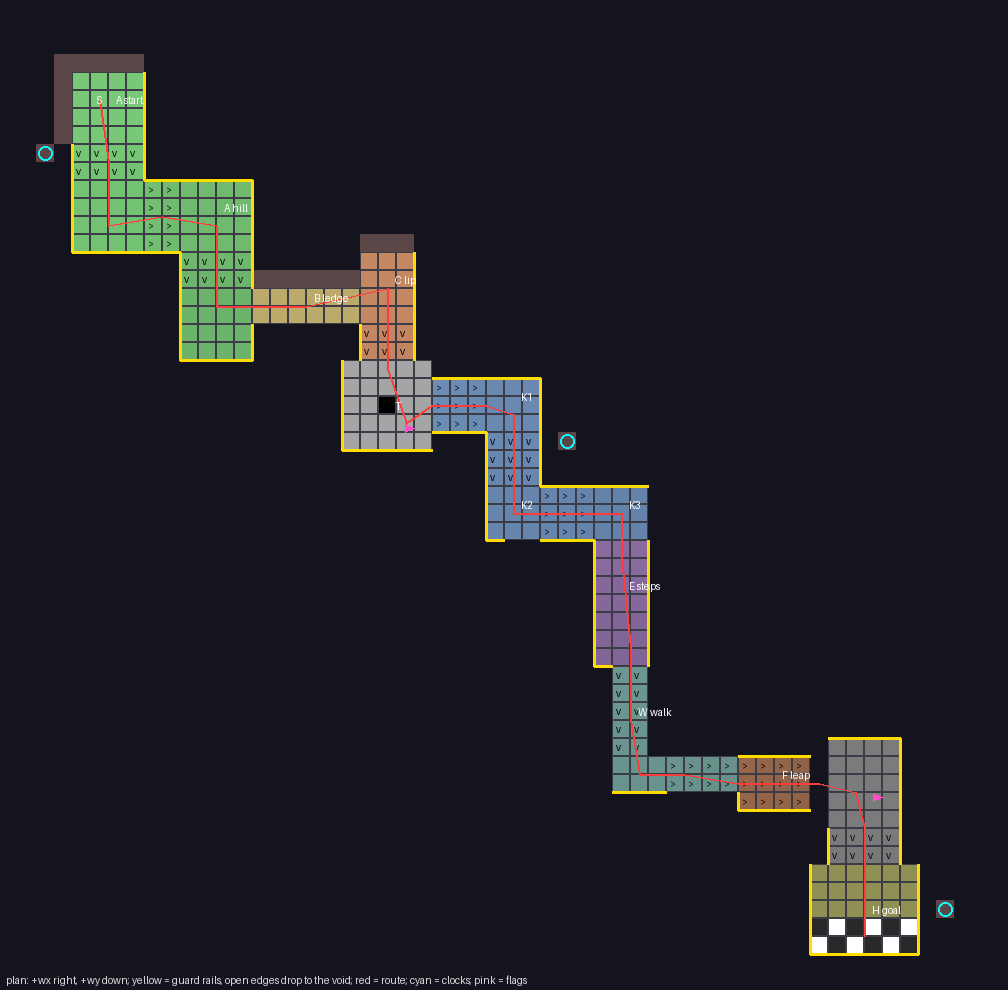
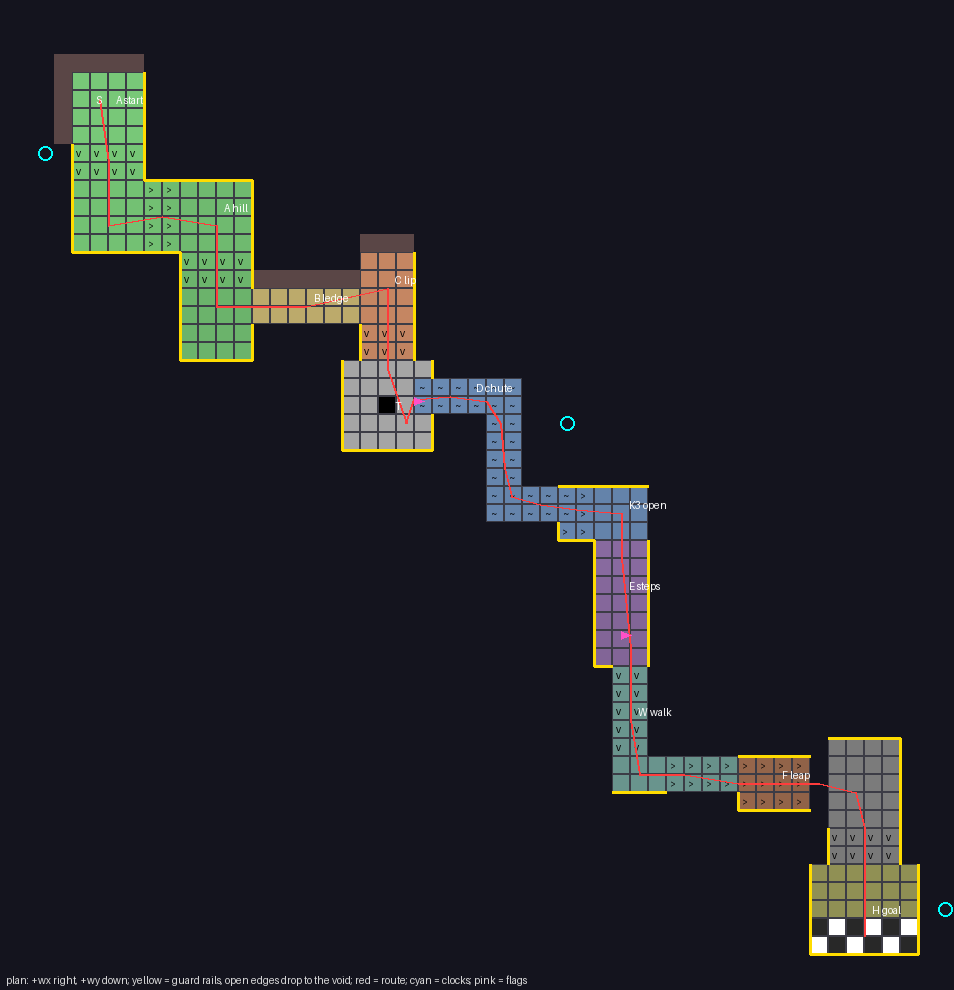
bonanza: FIRST ROLL pen-in revision 2 - the shaped chute in place of the corners, flags moved, clocks over the void
The owner's mark-up of revision 1: flag 0 to T's exit; an unfenced two-wide
shaped chute (as PLAYGROUND's) in place of K1/K2, rails back up on its exit
and K3's end open for the full-speed overshoot; flag 1 after E's turn; no
flag past the leap; clocks standing over the void so a standard-part clock
fits.

Claude-Session: https://claude.ai/code/session_01Wo8a4suEiDfFPFBsnHYKF3

Changed region(s): [[0.0304, 0.0606, 1.0, 0.9697], [0.0, 0.9697, 0.5472, 1.0]]

diff --git a/docs/plans/bonanza-courses/first/sketch.py b/docs/plans/bonanza-courses/first/sketch.py
@@ -37,6 +37,41 @@ def ramp(sec, axis, x0, y0, x1, y1, z0, z1):
             SECTION[(x, y)] = sec
 
 
+CHUTE = {}          # (wx, wy) -> the height function of the chute it is part of
+
+
+def chute(sec, ways, depth):
+    """a 2-wide shaped channel: its crease through the cell corners `ways`
+    [(x, y, lip z)], its bottom `depth` units under the lip on the crease,
+    rising as a parabola to the lip one tile either side"""
+    segs, L = [], 0.0
+    for (ax, ay, az), (bx, by, bz) in zip(ways, ways[1:]):
+        n = abs(bx - ax) + abs(by - ay)
+        segs.append((ax, ay, az, bx, by, bz, L, n))
+        L += n
+
+    def near(px, py):
+        best = None
+        for ax, ay, az, bx, by, bz, l0, n in segs:
+            t = max(0.0, min(1.0, ((px - ax) * (bx - ax) + (py - ay) * (by - ay)) / (n * n)))
+            qx, qy = ax + (bx - ax) * t, ay + (by - ay) * t
+            dd = ((px - qx) ** 2 + (py - qy) ** 2) ** 0.5
+            if best is None or dd < best[0]:
+                best = (dd, az + (bz - az) * t)
+        return best
+
+    def h(px, py):
+        dd, lip = near(px, py)
+        return lip - depth * (1 - min(dd, 1.0) ** 2)
+    xs = [w[0] for w in ways]; ys = [w[1] for w in ways]
+    for x in range(min(xs) - 1, max(xs) + 1):
+        for y in range(min(ys) - 1, max(ys) + 1):
+            if near(x + 0.5, y + 0.5)[0] <= 0.75:
+                CELLS[(x, y)] = (h(x, y), h(x + 1, y), h(x + 1, y + 1), h(x, y + 1))
+                SECTION[(x, y)] = sec
+                CHUTE[(x, y)] = h
+
+
 def rail(x0, y0, x1, y1):
     RAILS.append((x0, y0, x1, y1))
 
@@ -70,20 +105,16 @@ rail(23, 14, 23, 18)
 ramp("C", "y", 20, 18, 23, 20, Z - 6, Z - 7)                 # the lip ramp
 rail(20, 18, 20, 20); rail(23, 18, 23, 20)
 floor("T", 19, 20, 24, 25, Z - 10)                           # T, 3 units under the lip
-rail(19, 20, 19, 25); rail(19, 25, 24, 25)
+rail(19, 20, 19, 25); rail(19, 25, 24, 25); rail(24, 20, 24, 21); rail(24, 23, 24, 25)
 HOLES |= {(21, 22)}
-# D  three corners, each less forgiving: the first railed, the second half
-#    railed, the third open.  Gentle ramps on the legs
-ramp("D", "x", 24, 21, 27, 24, Z - 10, Z - 11)               # D1 leg
-rail(24, 21, 27, 21); rail(24, 24, 27, 24)
-floor("D", 27, 21, 30, 24, Z - 11)                           # K1, railed
-rail(27, 21, 30, 21); rail(30, 21, 30, 24)
-ramp("D", "y", 27, 24, 30, 27, Z - 11, Z - 12)               # D2 leg
-rail(27, 24, 27, 27); rail(30, 24, 30, 27)
-floor("D", 27, 27, 30, 30, Z - 12)                           # K2, half railed
-rail(27, 27, 27, 30); rail(27, 30, 28, 30)
-ramp("D", "x", 30, 27, 33, 30, Z - 12, Z - 13)               # D3 leg
-rail(30, 27, 33, 27); rail(30, 30, 33, 30)
+# D  the CHUTE: a shaped, two-wide channel (`chute 2 round`, SPEC.md
+#    130.28, like PLAYGROUND's), UNFENCED - its shape is the guide - from
+#    T's exit along +x, round a corner down +y, round a corner along +x into
+#    D3.  D3's rails come back up as it exits; K3's far end stays OPEN, so a
+#    ball out of the chute at full speed can overshoot into the void
+chute("D", [(24, 22, Z - 10), (28, 22, Z - 11), (28, 28, Z - 12), (31, 28, Z - 12)], 1.25)
+ramp("D", "x", 31, 27, 33, 30, Z - 12, Z - 13)               # D3, railed
+rail(31, 27, 33, 27); rail(31, 30, 33, 30); rail(31, 29, 31, 30)
 floor("D", 33, 27, 36, 30, Z - 13)                           # K3, open
 rail(33, 27, 36, 27)
 # E  the steps: one unit each, down onto floor (a drop onto floor is fine)
@@ -113,20 +144,19 @@ rail(45, 48, 45, 53); rail(45, 53, 51, 53); rail(51, 48, 51, 53)
 GOAL = {(x, y) for x in range(45, 51) for y in range(51, 53)}
 
 START = (5.5, 5.5)
-FLAGS = [(22.5, 24.0, "flag 0"), (48.5, 44.5, "flag 1")]
+FLAGS = [(23.0, 22.5, "flag 0"), (34.5, 35.5, "flag 1")]
 # clocks: (wx, wy, z of the face's foot, frame)
-CLOCKS = [(2.5, 8.5, Z, "pillar"), (31.5, 24.5, Z - 9, "pillar"), (52.5, 50.5, Z - 21, "pillar")]
-for x, y, z, _ in CLOCKS:
-    WALLS.append((int(x), int(y), int(x) + 1, int(y) + 1, z - 2))
+# every clock a STANDARD part standing over the void, beside the path (no tile under it)
+CLOCKS = [(2.5, 8.5, Z, "over void"), (31.5, 23.5, Z - 9, "over void"), (52.5, 50.5, Z - 21, "over void")]
 
 # the route, as the player rolls it (the sketch's centre line, not a demo)
 ROUTE = [(5.5, 5.5), (6, 9), (6, 12.5), (9, 12), (12, 12.5), (12, 15), (12, 17),
          (13.5, 17), (17, 17), (21.5, 16), (21.5, 19), (21.5, 20.5), (22.6, 23.5),
-         (24, 22.5), (27, 22.5), (28.5, 23), (28.5, 26), (28.5, 28.5), (31, 28.5),
+         (23, 22.2), (25, 22), (27, 22.3), (27.8, 23.5), (28, 26), (28.4, 27.6), (30, 28), (32, 28.3),
          (34.5, 28.5), (34.5, 31), (35, 36), (35, 40), (35.5, 43), (38, 43),
          (41, 43.5), (45.5, 43.5), (47.5, 44), (48, 46), (48, 52)]
 LABELS = [(6, 6, "A start"), (12, 12, "A hill"), (17, 17, "B ledge"), (21.5, 16, "C lip"),
-          (21.5, 23, "T"), (28.5, 22.5, "K1"), (28.5, 28.5, "K2"), (34.5, 28.5, "K3"),
+          (21.5, 23, "T"), (26, 22, "D chute"), (34.5, 28.5, "K3 open"),
           (34.5, 33, "E steps"), (35, 40, "W walk"), (43, 43.5, "F leap"),
           (48, 51, "H goal")]
 
@@ -161,7 +191,10 @@ def plan(out):
         if (x, y) in GOAL:
             col = (255, 255, 255) if (x + y) % 2 else (40, 40, 40)
         d.rectangle([x * S, y * S, x * S + S - 1, y * S + S - 1], fill=col, outline=(60, 60, 70))
-        if c[0] != c[2] or c[1] != c[3]:
+        if (x, y) in CHUTE:
+            dep = min(c)
+            d.text((x * S + 5, y * S + 3), "~", fill=(0, 0, 0))
+        elif c[0] != c[2] or c[1] != c[3]:
             d.text((x * S + 4, y * S + 3), "v" if c[3] < c[0] else ">", fill=(0, 0, 0))
     for x0, y0, x1, y1, z in WALLS:
         d.rectangle([x0 * S, y0 * S, x1 * S - 1, y1 * S - 1], fill=(90, 70, 70))
@@ -216,7 +249,17 @@ def iso(out):
                   fill=tuple(v // 2 for v in base))
         d.polygon([Q(x + 1, y, ne), Q(x + 1, y + 1, se), Q(x + 1, y + 1, ground), Q(x + 1, y, ground)],
                   fill=tuple(v * 2 // 3 for v in base))
-        d.polygon(top, fill=base, outline=tuple(v * 3 // 4 for v in base))
+        if (x, y) in CHUTE and not wall:
+            hf, k = CHUTE[(x, y)], 4
+            for i in range(k):
+                for j in range(k):
+                    a0, b0, a1, b1 = x + i / k, y + j / k, x + (i + 1) / k, y + (j + 1) / k
+                    zz = [hf(a0, b0), hf(a1, b0), hf(a1, b1), hf(a0, b1)]
+                    sh = 0.75 + 0.25 * (zz[1] + zz[2] - zz[0] - zz[3] + 2) / 4
+                    col = tuple(min(255, int(v * sh)) for v in base)
+                    d.polygon([Q(a0, b0, zz[0]), Q(a1, b0, zz[1]), Q(a1, b1, zz[2]), Q(a0, b1, zz[3])], fill=col)
+        else:
+            d.polygon(top, fill=base, outline=tuple(v * 3 // 4 for v in base))
     for x0, y0, x1, y1 in RAILS:
         n = max(abs(x1 - x0), abs(y1 - y0)) * 2
         seg = []
@@ -244,13 +287,13 @@ def iso(out):
     # route's px span against the camera's dead zone (160 px on the CGA)
     rx = [Q(x, y, zat(x, y))[0] for x, y in ROUTE]
     mid = (min(rx) + max(rx)) // 2
-    for i, (x, y) in enumerate((ROUTE[0], ROUTE[16], ROUTE[-1])):
+    for i, (x, y) in enumerate((ROUTE[0], ROUTE[15], ROUTE[-1])):
         _, cy = Q(x, y, zat(x, y))
         d.rectangle([mid - 160, cy - 100, mid + 160, cy + 100], outline=(0, 255, 255))
     d.line([mid - 80, 0, mid - 80, H], fill=(70, 70, 120))
     d.line([mid + 80, 0, mid + 80, H], fill=(70, 70, 120))
     d.text((8, 8), "route px span %d (CGA dead zone 160); course %d lines tall; cyan boxes = one CGA "
-           "window at the start, K2's clock and the goal" % (max(rx) - min(rx), H - 220), fill=(220, 220, 220))
+           "window at the start, the chute's clock and the goal" % (max(rx) - min(rx), H - 220), fill=(220, 220, 220))
     im.save(out)
     return max(rx) - min(rx), H
 

diff --git a/docs/plans/bonanza-courses/FIRST-ROLL.md b/docs/plans/bonanza-courses/FIRST-ROLL.md
@@ -1,43 +1,54 @@
 # FIRST ROLL: design sheet, attempt 1
 
-*Status: **PEN-IN**. On paper only, for the back and forth with the owner
-before anything goes into the engine (the guide's pipeline, section 3).
-Nothing here is built. Distances are tiles, heights are units (8 px), and
-times are PREDICTED from the route's length; the tool measures them once the
-course is in the engine.*
+*Status: **PEN-IN, revision 2**. On paper only, for the back and forth with
+the owner before anything goes into the engine (the guide's pipeline,
+section 3). Nothing here is built. Distances are tiles, heights are units
+(8 px), and times are PREDICTED from the route's length; the tool measures
+them once the course is in the engine.*
 
 The test course of the same title (`apps/bonanza/courses/first.bbc`, FIRST)
 stays a test course. This is the shipped course 1. Its NAME in the tool is
 proposed as `ROLL`, leaving FIRST free for the test course.
 
+**Revision 2 (the owner, 2026-11-18, on revision 1's picture):**
+- flag 0 moves to T's middle, at its exit;
+- the three railed corners become a SHAPED CHUTE, two tiles wide and
+  unfenced. The rails come back up where it exits, and K3's far end stays
+  open, so a ball that comes out at full speed can overshoot;
+- flag 1 moves to the turn at the foot of E, before the walk and the leap.
+  There is no flag past the leap, since nothing between there and the goal
+  can kill;
+- every clock stands over the void, which a standard-part clock needs.
+
 | field | value |
 |---|---|
 | place | tutorial 1: the first node of the pathway, no branch |
 | world | the tutorial (none) |
-| families | **none**: tiles, holes and guard rails only (the rails are tool art, 0 resident bytes) |
+| families | **none**: tiles, holes, one shaped chute (FIELD cells, SPEC.md 130.28) and guard rails. The chute and the rails are tool work, with no family part |
 | start ball | rubber, the whole way (G13) |
 | finishes | one, the goal plateau; no secret |
-| target time | **about 35 s** (G1). The sketch's route is 87.5 tiles; at the 2.5 - 3 tiles a second a careful first play averages, that is about 30 - 35 s (PREDICTED) |
+| target time | **about 35 s** (G1). The sketch's route is 87 tiles; at the 2.5 - 3 tiles a second a careful first play averages, that is about 30 - 35 s (PREDICTED) |
 | pace | about 950 picture lines, about 120 block rows, so about 0.29 s a block row: one part, well inside the limits |
 | palette | the owner's choice: a bright daytime palette, to read as the first course |
-| clocks | three, all standard-part pillars (section 3 below; G23) |
+| clocks | three, all STANDARD-PART clocks standing over the void (section 3; G23) |
 | song | the owner's choice |
 | the new demand (CD2) | **reading an edge**: drops kill you, and the player learns the timing at a lip, when to let the ball run and when to slow it |
-| what it teaches | roll and steer; brake; ramps; **drops kill you, and you need to learn the timing** (the lesson the test FIRST ROLL got right); a Hop is always allowed and never required |
-| help it gives (CD2) | guard rails on nearly every edge; ramps that funnel to the centre; corners that lose their rails one at a time; respawns close behind every hazard |
+| what it teaches | roll and steer; brake; ramps; a shaped chute; **drops kill you, and you need to learn the timing** (the lesson the test FIRST ROLL got right); a Hop is always allowed and never required |
+| help it gives (CD2) | guard rails on nearly every edge; ramps that funnel to the centre; a chute that guides with no rail; respawns close behind every hazard |
 
 ![the plan, from above](first/plan.png)
 
-*Above: the plan. +wx is right and +wy is down; the arrows mark ramps and
-their downhill direction. Yellow is a guard rail, and an edge without one
-drops into the void. Red is the route, cyan the clocks, pink the flags.*
+*Above: the plan. +wx is right and +wy is down. The arrows mark ramps and
+their downhill direction, and `~` marks the chute's cells. Yellow is a guard
+rail, and an edge without one drops into the void. Red is the route, cyan
+the clocks, pink the flags.*
 
 ![the course in the game's projection](first/iso.png)
 
 *Above: the same course in the game's projection, drawn as plain blocks with
 none of the real art. The cyan boxes are one CGA window (320 x 200) at the
-start, at K1's clock and at the goal. The two vertical lines are the CGA
-camera's dead zone (160 px). `first/sketch.py` draws both pictures.*
+start, at the chute's clock and at the goal. The two vertical lines are the
+CGA camera's dead zone (160 px). `first/sketch.py` draws both pictures.*
 
 ## 1. The course, section by section
 
@@ -48,17 +59,18 @@ Times are cumulative and PREDICTED.
 | A | **the start and the hill** | A railed plateau, then three ramps, alternately along +y and +x (the shape of SUMMIT's opening hill), each throwing onto a flat landing that a rail closes, so the throw turns the ball onto the next ramp | rolling, steering, what a ramp does to speed; nothing here can hurt | 0 - 9 |
 | B | **the ledge** | Two tiles wide, a wall behind and its FRONT EDGE OPEN. Holding Down drifts the ball off the front; the edge's chord (Down+Right) runs it straight | **drops kill you**: the first fall respawns at the start, 9 s back, which is cheap | 9 - 12 |
 | C | **the lip** | A short run-up and a ramp end in a lip 3 units above a wide landing, T. A HOLE sits where the straight full-speed landing falls. Slowing down (then steering round it), a Hop (over it), or either side of the ramp (past it) all succeed. Holding straight on fails | **timing at a lip**: the test FIRST ROLL's good jump, re-planned so its flight crosses about 32 px on screen, inside the dead zone (G3) | 12 - 15 |
-| T | **flag 0** | On T's far side, after the lip (G20) | | 15 |
-| D | **three corners** | Gentle ramps down, alternately +x and +y, 3 tiles wide and railed along their sides. Corner K1's outer edge is railed; K2's is HALF railed, the gap where a fast ball goes; K3's is open | **braking**: Shift before a corner. Each corner takes away one more piece of help | 15 - 24 |
-| E | **the steps** | Three one-unit steps down onto floor, railed | dropping onto a floor is fine; only the void kills | 24 - 26 |
-| W | **the walk** | Two tiles wide, both edges open, an easy bend: a straight ramp, a railed elbow, a ramp the other way | steering with the drop on either side; going steady rather than slow | 26 - 31 |
-| F | **the leap** | A railed run-up along +x into a ramp, a ONE-tile gap in the void, and a landing 2 units under the lip | the mirror of C: here **too slow** drops into the gap, so the player must keep the speed the run-up gives (G4: the run-up is in plain view, and the arrow held down is the whole answer) | 31 - 33 |
-| G | **flag 1** | On the landing past the leap | | 33 |
-| H | **the finish** | A short ramp down onto a wide, railed goal plateau, the goal line across its far rows, all of it in view (G5) | | 33 - 36 |
+| T | **flag 0** | In T's middle, at its exit, just before the chute. T is railed but for the chute's mouth | | 15 |
+| D | **the chute** | A shaped channel two tiles wide (`chute 2 round`, about 10 px deep, like PLAYGROUND's), with NO rails: its shape guides the ball. It runs from T's exit along +x, round a corner down +y, and round a corner along +x, falling about 2 units. The rails come back up on D3 as it exits; K3's far end is OPEN | the shaped floor; then **braking**: a ball out of the chute at full speed overshoots K3 into the void, and Shift is the answer | 15 - 23 |
+| E | **the steps** | Three one-unit steps down onto floor, railed, turning off K3 | dropping onto a floor is fine; only the void kills | 23 - 25 |
+| E | **flag 1** | On the last step, after the turn, before the walk and the leap: a fall in either respawns here | | 25 |
+| W | **the walk** | Two tiles wide, both edges open, an easy bend: a straight ramp, a railed elbow, a ramp the other way | steering with the drop on either side; going steady rather than slow | 25 - 30 |
+| F | **the leap** | A railed run-up along +x into a ramp, a ONE-tile gap in the void, and a landing 2 units under the lip | the mirror of C: here **too slow** drops into the gap, so the player must keep the speed the run-up gives (G4: the run-up is in plain view, and the arrow held down is the whole answer) | 30 - 32 |
+| H | **the finish** | The landing, a short ramp down, and a wide, railed goal plateau, the goal line across its far rows, all of it in view (G5). No flag: nothing here can kill | | 32 - 35 |
 
 **C and F are the course's pair**: one punishes too much speed, the other
 too little. Together they are the lesson the owner named: drops kill you,
-and you learn the timing.
+and you learn the timing. The chute's open end at K3 is the same lesson in a
+third form, coming out of a shape rather than off a lip.
 
 ## 2. The camera plan (G2, G3)
 
@@ -67,35 +79,47 @@ and you learn the timing.
   216 px across. There are no long horizontal runs.
 - **The swing is a little more than the dead zone.** The CGA's is 160 px
   and the Hercules' 180 px, so the camera should make a framing move
-  (LATTICE's 8 columns) or two. The intent is for those moves to come at the
-  corners K1 - K3, on the ground. **To check (story 11.11)**: where they
+  (LATTICE's 8 columns) or two. The intent is for those moves to come on the
+  ground, in the chute or at K3. **To check (story 11.11)**: where they
   actually fall, and whether a tighter swing removes them.
 - **The two jumps do not pan.** C's flight runs along +y, about 2 tiles,
   32 px left. F's runs along +x, 2 tiles including the gap, 32 px right.
   Both are about 32 px, against a dead zone of 160 px. **To check**: 11.11's
   airborne column; the sketch cannot model the camera's position at take-off.
 
-## 3. The clocks (G9 - G12)
+## 3. The clocks (G9 - G12, G23)
 
-| clock | where | seen | frame |
-|---|---|---|---|
-| start | on a lone pillar off the plateau's left corner, beside R1 | from the start; through A | pillar (standard) |
-| middle | on a pillar inside K1's bend, off the route | from T (flag 0) through K3, about 14 - 24 s | pillar (standard) |
-| finish | on a pillar off the goal plateau's right corner | from F onward and from the goal line | pillar (standard) |
+All three are STANDARD-PART clocks standing over the void beside the path,
+with no tile under them. That is the placement a standard part can be
+designed for (the owner: *"we might need to keep clocks over void, like the
+top one, so the standard part can be used"*). If the course gets its own
+art instead (G23), the placements stay.
+
+| clock | where | seen |
+|---|---|---|
+| start | over the void off the plateau's left corner, beside R1 | from the start; through A |
+| middle | over the void outside the chute's first bend | from T (flag 0) through K3, about 14 - 23 s |
+| finish | over the void off the goal plateau's right corner | from F onward and from the goal line |
 
 - **Never two on one screen**: the clocks are more than 350 lines apart.
 - **The longest stretch without a clock in view**: about the middle of A to
   T, and K3 to F, each about 6 - 8 s (PREDICTED), under 15 s.
-- **Open**: whether the middle clock's pillar, in front of the D legs, hides
-  any of the K1 - K2 leg. That is the visibility check's to say (11.5).
+- **To check**: whether the middle clock, in front of the chute's second
+  leg, hides any of it. That is the visibility check's to say (11.5).
 
 ## 4. Surfaces, lifts, pads and props
 
-- **None.** No sand, no ice, no lift, no pad, no family. The first course is
-  the bare physics. Its only hazards are edges and one hole (G16 - G18).
-  Course 2 (Hop, rubber's "and again", a spring) brings the first prop.
+- **None but the chute.** No sand, no ice, no lift, no pad, no family. The
+  first course is the bare physics and one shaped floor. Its hazards are
+  edges and one hole (G16 - G18). Course 2 (Hop, rubber's "and again", a
+  spring) brings the first prop.
+- **The chute is a candidate STANDARD PART** (the guide's section 5): a
+  two-wide, two-corner S that drops about 2 units.
 
 ## 5. Open questions for the owner
+
+Answered in revision 2: the flags, the corners (now the chute) and the
+clocks' placement.
 
 1. **The pair, C and F.** Is "too fast" then "too slow" the right shape for
    "learn the timing"? Or should the lip come back a second time, harder (a
@@ -103,10 +127,10 @@ and you learn the timing.
 2. **The ledge, B**, so early: the first open edge comes about 9 s in, and a
    fall costs 9 s. Is that too soon, or just right for "drops kill you"?
 3. **Rails.** Nearly every edge is railed, with the open edges chosen (B,
-   K2's gap, K3, the walk, the leap). Is that too much help? Or should the
+   the chute, K3, the walk, the leap). Is that too much help? Or should the
    walk keep one rail?
-4. **The clocks' art**: standard pillars here, or this course's own (the
-   guide's G23)?
+4. **The clocks' art**: standard parts over the void, or this course's own
+   (G23)? Story 11.14 prices both first.
 5. **The name in the tool**: `ROLL`?
 6. **Length**: about 35 s PREDICTED. If the first play comes in short, the
    lengthener is a fourth ramp on the hill, or a second walk.

diff --git a/docs/plans/BOUNCE-BONANZA-DIARY.md b/docs/plans/BOUNCE-BONANZA-DIARY.md
@@ -5237,3 +5237,38 @@ The two jumps are the pair the owner's lesson asks for.
 
 **Run**: the sketch script and `tools/checkdocs.py`. **Not run**: nothing
 in the engine; every time and the camera's behaviour are PREDICTED.
+
+## 2026-11-18 (FIRST ROLL, revision 2 of the pen-in)
+
+The owner, on revision 1's picture: *"This is a good start."* They marked it
+up, and wrote:
+
+> The first flag, lets move it to the middle of what I think I am reading as
+> T, right before the next segment. Lets add a shaped, double block, unfenced
+> but easily guided shape chute here, similar to the one already on the chute
+> test/playground. Fences come back up as they exit, but leave off the fence
+> on the end just like you have it; that way they can overshoot if they come
+> out full speed. Flag after the turn on E, before they set up for the
+> turn-then-jump. No flag right at the end - there is nothing to kill them
+> between there and the exit.
+>
+> Clock placement looks very good as far as readability and course position,
+> although if we do go with standard clocks we might need to keep clocks over
+> void, like the top one, so the standard part can be used.
+
+**Revision 2**
+([FIRST-ROLL.md](bonanza-courses/FIRST-ROLL.md), pictures redrawn):
+- flag 0 sits in T's middle at its exit, and T is railed but for the chute's
+  mouth;
+- the corners K1 and K2 are replaced by a two-wide `chute 2 round`, unfenced,
+  shaped as PLAYGROUND's is: along +x, down +y, along +x. D3's rails come
+  back up as it exits, and K3's end stays open;
+- flag 1 sits on E's last step, after the turn;
+- there is no flag past the leap;
+- all three clocks stand over the void.
+
+The sketch now draws a chute as a parabolic channel round its crease. That
+is an approximation of SPEC.md 130.28's tables, close enough to argue the
+shape over.
+
+**Run**: the sketch and `tools/checkdocs.py`. Nothing in the engine.
